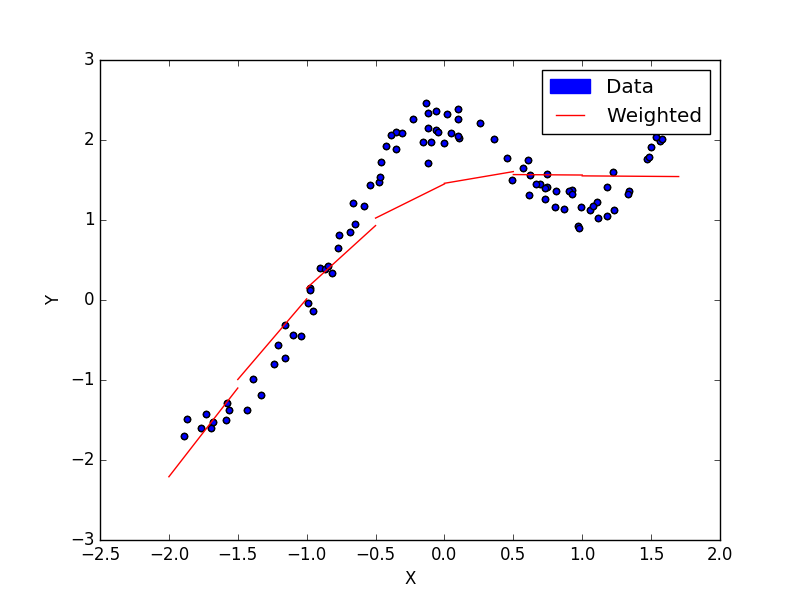
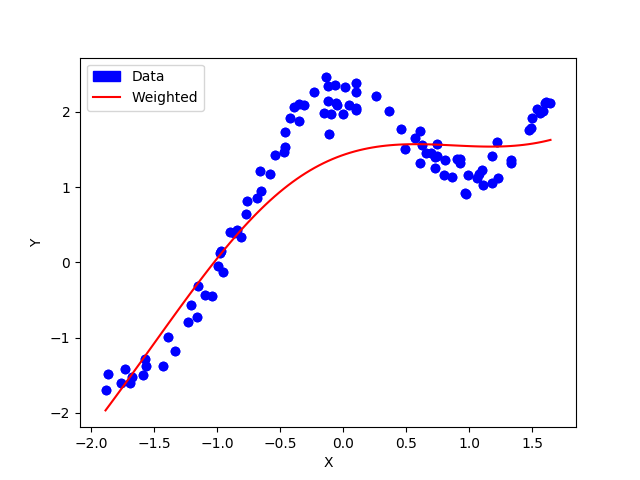
Fixed the locally weighted regression | Plotted | Created the report

diff --git a/assignment1/src/models/WeightedLinearRegression.py b/assignment1/src/models/WeightedLinearRegression.py
@@ -6,42 +6,15 @@ class WeightedLinearRegression():
   Creates a WeightedLinearRegression object
   '''
 
-  def __init__(self, weighted = False, bandwidth = 1.0, intervals = []):
+  def __init__(self, weighted = False, bandwidth = 1.0):
     '''
     Similar like simple regression
     1. Parameter for bandwidth added
-    2. Parameter for intervals on which the model would be trained, dimension: R^(n+1)
     '''
     self.Thetas = []
     self.Bandwidth = bandwidth
     self.returnValue = None
-    self.Intervals = intervals
     self.Weighted = weighted
-
-  def __ChoosePoint(self, X, interval):
-    '''
-    Choose the middle-most point in the interval for training
-    1. Will cross product be more efficient for checking whether point lies inside??
-    2. Point chosen is the closest to the centroid of the nd cuboid
-    '''
-    intervalPoints = []
-    for i in range(0, self.M):
-      for j in range(0, len(interval)):
-        if((X[i][j+1] >= interval[j][0]) and (X[i][j+1] < interval[j][1])):
-          intervalPoints.append(X[i])
-
-    centroid = np.zeros(shape=(len(interval)))
-    for i in range(0, len(interval)):
-      centroid[i] = ( interval[i][0] + interval[i][1] )/ 2
-
-    minPoint = None
-    minNorm = np.inf
-    for point in intervalPoints:
-      currNorm = np.linalg.norm(point - centroid)
-      if(currNorm < minNorm):
-        minNorm = currNorm
-        minPoint = point
-    return minPoint
 
   def Fit(self, X, y):
 
@@ -49,7 +22,7 @@ class WeightedLinearRegression():
       nonlocal X
       return np.diag([np.exp(- np.dot((point - x).T, point - x) / (2 * (self.Bandwidth ** 2)) ) for x in X])
 
-    def _Update(self, idx = None, _W = None ):
+    def _Update(self, _W = None ):
       '''
       idx and W are needed if weighted regression occurs
       '''
@@ -68,22 +41,26 @@ class WeightedLinearRegression():
     (X,y) = PreProcessFit(X, y, model='regression')
     self.M = len(X)
     self.N = len(X.T)
+    self.returnValue = []
     '''
     Parameters for the model
     Number of parameters thus depend on the number of intervals
     '''
     if(self.Weighted == True):
-      self.Thetas = np.zeros(shape=(len(self.Intervals), self.N))
-      self.Points = []
-      for interval in self.Intervals:
-        self.Points.append(self.__ChoosePoint(X, interval))
-      self.Points = np.array(self.Points)
+      '''
+      Get a point with granularity and then compute the corrsponding thetas and choose that
+      '''
+      minX, maxX = min(X.T[1]), max(X.T[1])
+      self.Granularity = abs(maxX - minX) / self.M
+      self.Thetas = np.zeros(shape=(self.M + 1, self.N))
 
-      for i in range(0, len(self.Intervals)):
-        W = _WMatrix(self, self.Points[i])
-        self.Thetas[i] = np.squeeze((_Update(self, i, W)))
+      for i in range(0, self.M + 1):
+        W = _WMatrix(self, np.array([1.0, minX + i*self.Granularity]))
+        self.Thetas[i] = np.squeeze((_Update(self, W)))
+        self.returnValue.append((minX + i*self.Granularity, self.Thetas[i]))
     else:
       self.Thetas = np.zeros(shape=(self.N, 1))
       self.Thetas = _Update(self)
+      self.returnValue = self.Thetas
 
     return self.returnValue

diff --git a/assignment1/src/analysis/plot.py b/assignment1/src/analysis/plot.py
@@ -76,7 +76,7 @@ def Q1d(X, y, answer, part):
   plt.legend(handles=[e, red_patch])
   plt.savefig('../outputs/Q1/part'+part+'.png')
 
-def Q2(X, y, part, thetas, intervals = []):
+def Q2(X, y, part, answer):
   plt.clf()
   plt.scatter(X, y, c=['blue'])
   plt.xlabel('X')
@@ -85,17 +85,19 @@ def Q2(X, y, part, thetas, intervals = []):
   legendHandles = [blue_patch]
 
   if(part == 'a'):
-    c,= plt.plot((min(X), max(X)), (thetas[0] + thetas[1]*min(X), thetas[0] + thetas[1]*max(X)), 'red', label='Unweighted')
+    c,= plt.plot((min(X), max(X)), (answer[0] + answer[1]*min(X), answer[0] + answer[1]*max(X)), 'red', label='Unweighted')
     legendHandles.append(c)
 
   else:
     plt.scatter(X, y, c=['blue'])
     i = 0
-    for interval in intervals:
-      c,= plt.plot((interval[0][0], interval[0][1]), (thetas[i][0] + thetas[i][1]*interval[0][0], thetas[i][0] + thetas[i][1]*interval[0][1]), 'red', label='Weighted')
-      if(i == 0):
-        legendHandles.append(c)
-      i += 1
+    xValues = []
+    yValues = []
+    for i in range(len(answer)):
+      xValues.append(answer[i][0])
+      yValues.append(answer[i][1][0] + answer[i][1][1] * answer[i][0])
+    c ,= plt.plot(xValues, yValues, 'red', label='Weighted')
+    legendHandles.append(c)
   plt.legend(handles=legendHandles)
   plt.savefig('../outputs/Q2/part' + part + '.png')
 

diff --git a/assignment1/src/models/LinearRegression.py b/assignment1/src/models/LinearRegression.py
@@ -67,11 +67,17 @@ class LinearRegression():
     while (not _Converged(self)):
       count += 1
 
+      if(abs(_CostFunction(self.Thetas)[0][0]) == np.inf):
+        print('Gradient Descent diverged. Check the learning rate and the convergence condition')
+        return None
+
       if (self.StoreCostFunction == True) and (count % self.Count == 0):
         self.returnValue.append([count, self.Thetas[0].copy(), self.Thetas[1].copy(), _CostFunction(self.Thetas)])
 
       _Update(self)
 
+    # print(count)
+    
     if(self.StoreCostFunction == True):
       self.returnValue.append([count, self.Thetas[0].copy(), self.Thetas[1].copy(), _CostFunction(self.Thetas)])
 

diff --git a/assignment1/src/analysis/q2.py b/assignment1/src/analysis/q2.py
@@ -5,7 +5,6 @@ from src.models.WeightedLinearRegression import WeightedLinearRegression
 
 [(X, restoreData), y] = Reader('q2', [float, float], [0, 0])
 
-Intervals = np.array([[[-2.0, -1.5]], [[-1.5, -1.0]], [[-1.0, -0.5]], [[-0.5, 0.0]], [[0.0, 0.5]], [[0.5, 1.0]], [[1.0, 1.7]]])
-model = WeightedLinearRegression(weighted = True, bandwidth = 10, intervals = Intervals)
+model = WeightedLinearRegression(weighted = True, bandwidth = 0.025)
 answer = model.Fit(X, y)
-Q2(X, y, 'c4', model.Thetas, Intervals)
+Q2(X, y, 'c5', answer)

diff --git a/assignment1/src/analysis/q1.py b/assignment1/src/analysis/q1.py
@@ -5,7 +5,7 @@ from src.models.LinearRegression import LinearRegression
 
 [(X, restoreData),y] = Reader('q1', [float, float], [0,0])
 
-model = LinearRegression(count=1, storeCostFunction=True, eta=1.3)
+model = LinearRegression(count=1, storeCostFunction=True, eta=2.1)
 answer = np.array(model.Fit(X, y))
-
-Q1d(X, y, answer, 'e4')
+print(model.Thetas)
+Q1d(X, y, answer, 'e5')

diff --git a/assignment1/src/analysis/q4.py b/assignment1/src/analysis/q4.py
@@ -5,6 +5,6 @@ from src.models.GaussianDiscriminant import GaussianDiscriminant
 
 [(X, restoreData),y] = Reader('q4', [float, str], [1,0])
 
-model = GaussianDiscriminant(sameCov=True)
+model = GaussianDiscriminant(sameCov=False)
 model.Fit(X, y)
-Q4(X,y,'b')
+answer = model.DecisionBoundary()
